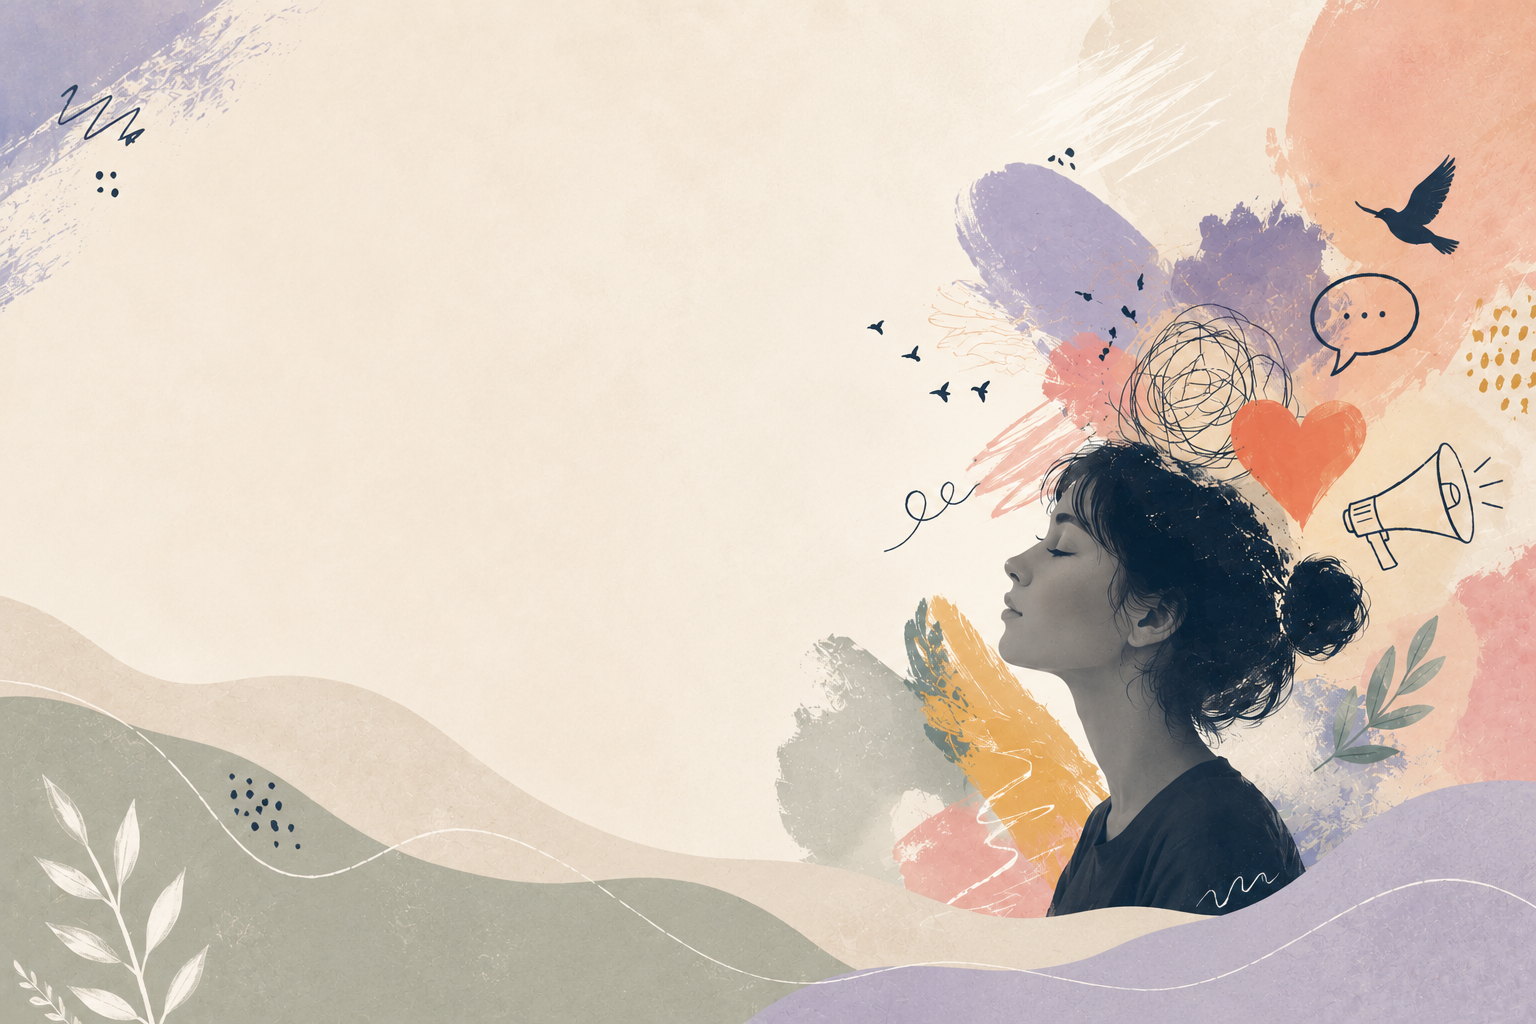
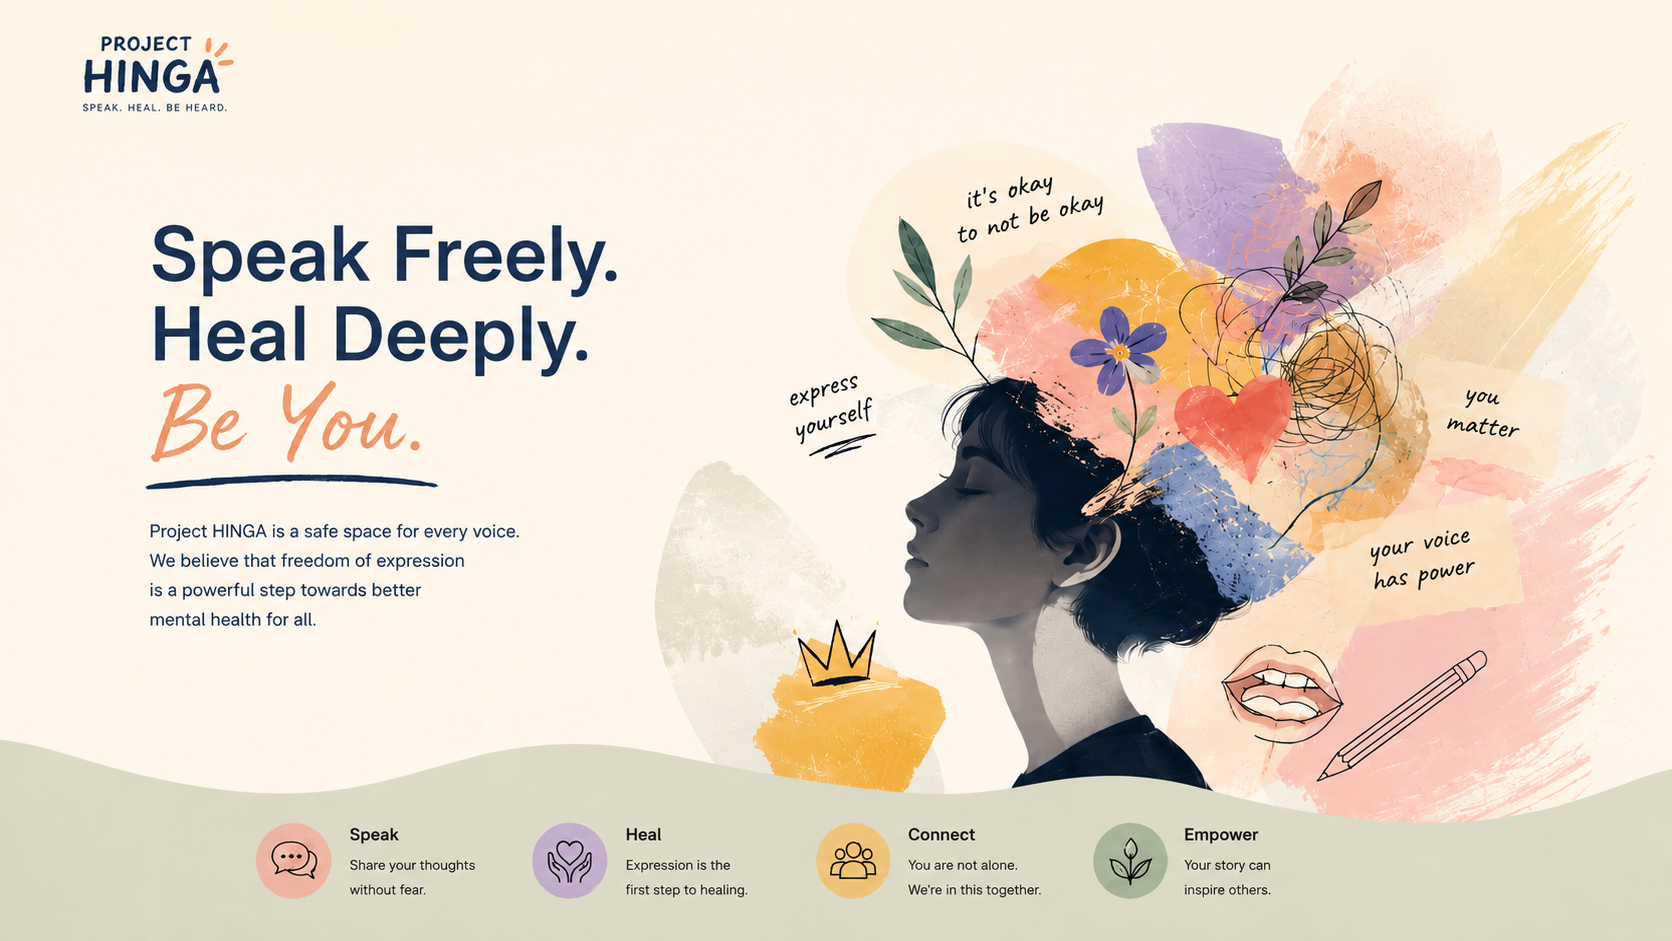
Updated Project Hinga landing page

diff --git a/app/page.tsx b/app/page.tsx
@@ -1,120 +1,40 @@
-"use client";
-
 import Link from "next/link";
 
 export default function Home() {
   return (
-    <main className="min-h-screen bg-[#f6f1ea] text-[#1f3261]">
+    <main className="relative w-full h-screen overflow-hidden bg-[#fdf2e2]"> 
 
-      {/* NAVBAR */}
-      <nav className="flex items-center justify-between px-8 py-6">
+      <img
+        src="/hero.png"
+        alt="Project Hinga"
+        className="absolute inset-0 w-screen h-screen object-contain bg-[#f8f5ef] pointer-events-none"
+      />
 
-        <h1 className="text-4xl font-bold tracking-wide">
-          PROJECT HINGA
-        </h1>
+        {/* TOP NAVIGATION */}
+        <div className="absolute top-8 left-0 w-full flex items-center justify-center gap-10 text-[#1f3261] font-medium z-50">
 
-        <div className="hidden md:flex gap-10 text-sm font-medium">
           <a href="#">Home</a>
           <a href="#">About</a>
           <a href="#">Mental Health</a>
           <a href="#">Resources</a>
+
         </div>
 
+        {/* JOIN BUTTON */}
         <Link
           href="/community"
-          className="bg-[#1f3261] text-white px-6 py-3 rounded-full font-semibold hover:opacity-90 transition"
+          className="absolute top-6 right-40 bg-[#1f3261] text-white px-8 py-4 rounded-full font-semibold z-50 hover:opacity-90 transition"
         >
           Join The Movement
         </Link>
 
-      </nav>
-
-      {/* HERO SECTION */}
-      <section className="max-w-7xl mx-auto px-8 py-16">
-
-        <div className="grid md:grid-cols-2 gap-12 items-center">
-
-          {/* LEFT SIDE */}
-          <div>
-
-            <h2 className="text-7xl font-bold leading-tight mb-6">
-              Speak Freely.
-              <br />
-              Heal Deeply.
-            </h2>
-
-            <p className="text-2xl text-[#44557f] leading-relaxed mb-10 max-w-xl">
-              Project HINGA is a safe space for every voice.
-              Express yourself anonymously and receive support
-              from a caring community.
-            </p>
-
-            <Link
-              href="/community"
-              className="inline-block bg-[#1f3261] text-white px-8 py-4 rounded-full text-lg font-semibold hover:opacity-90 transition"
-            >
-              Share Your Voice
-            </Link>
-
-          </div>
-
-          {/* RIGHT SIDE IMAGE */}
-          <div className="relative">
-
-            <div
-             className="w-full h-[700px] bg-contain bg-no-repeat bg-center"
-              style={{
-                backgroundImage: "url('/hero.png')",
-              }}
-            />
-
-          </div>
-
-        </div>
-
-      </section>
-
-      {/* FEATURES */}
-      <section className="max-w-6xl mx-auto px-8 pb-20">
-
-        <div className="grid md:grid-cols-4 gap-6">
-
-          <div className="bg-white/70 rounded-3xl p-6 shadow-sm">
-            <div className="text-4xl mb-4">💬</div>
-            <h3 className="text-xl font-bold mb-2">Speak</h3>
-            <p className="text-[#44557f]">
-              Share your thoughts without fear.
-            </p>
-          </div>
-
-          <div className="bg-white/70 rounded-3xl p-6 shadow-sm">
-            <div className="text-4xl mb-4">💛</div>
-            <h3 className="text-xl font-bold mb-2">Heal</h3>
-            <p className="text-[#44557f]">
-              Expression is the first step to healing.
-            </p>
-          </div>
-
-          <div className="bg-white/70 rounded-3xl p-6 shadow-sm">
-            <div className="text-4xl mb-4">🤝</div>
-            <h3 className="text-xl font-bold mb-2">Connect</h3>
-            <p className="text-[#44557f]">
-              You are not alone. We’re in this together.
-            </p>
-          </div>
-
-          <div className="bg-white/70 rounded-3xl p-6 shadow-sm">
-            <div className="text-4xl mb-4">🌱</div>
-            <h3 className="text-xl font-bold mb-2">Empower</h3>
-            <p className="text-[#44557f]">
-              Your story can inspire others.
-            </p>
-          </div>
-
-        </div>
-
-      </section>
-
+        {/* SHARE YOUR VOICE BUTTON */}
+        <Link
+          href="/community"
+          className="absolute bottom-52 left-60 bg-[#1f3261] text-white px-10 py-5 rounded-full text-xl font-semibold z-50 hover:opacity-90 transition"
+        >
+          Share Your Voice
+        </Link>
     </main>
   );
 }

diff --git a/app/layout.tsx b/app/layout.tsx
@@ -13,8 +13,8 @@ const geistMono = Geist_Mono({
 });
 
 export const metadata: Metadata = {
-  title: "Create Next App",
-  description: "Generated by create next app",
+  title: "Project Hinga",
+  description: "Generated by Project Hinga",
 };
 
 export default function RootLayout({